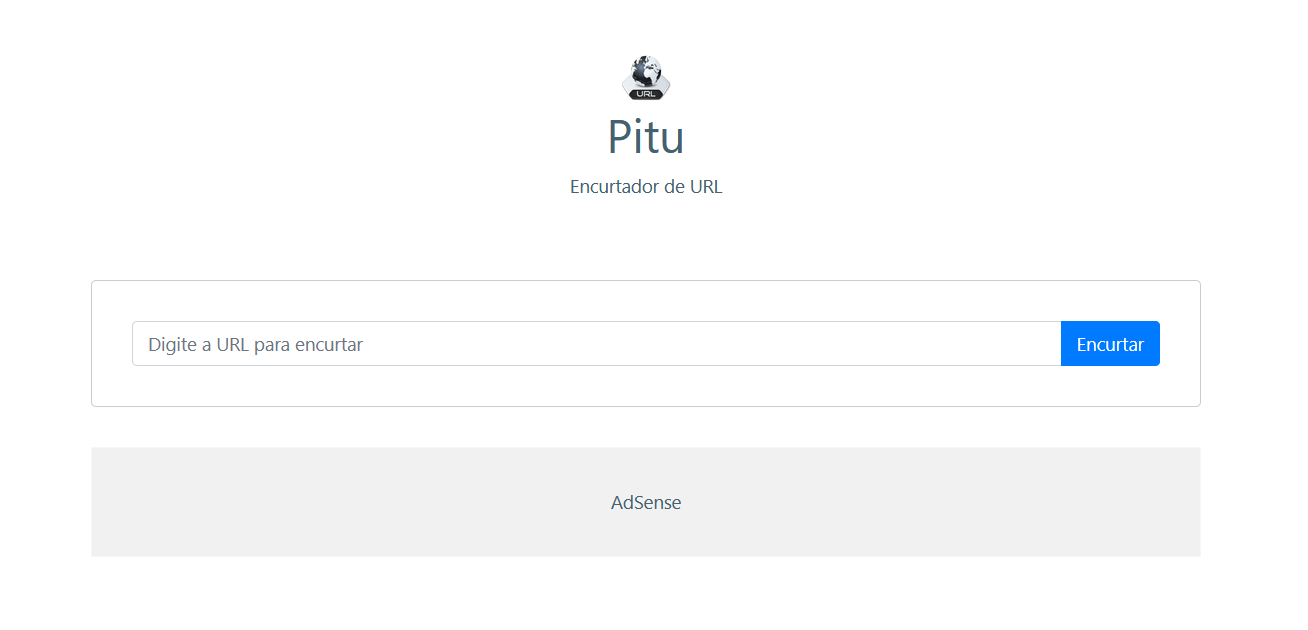
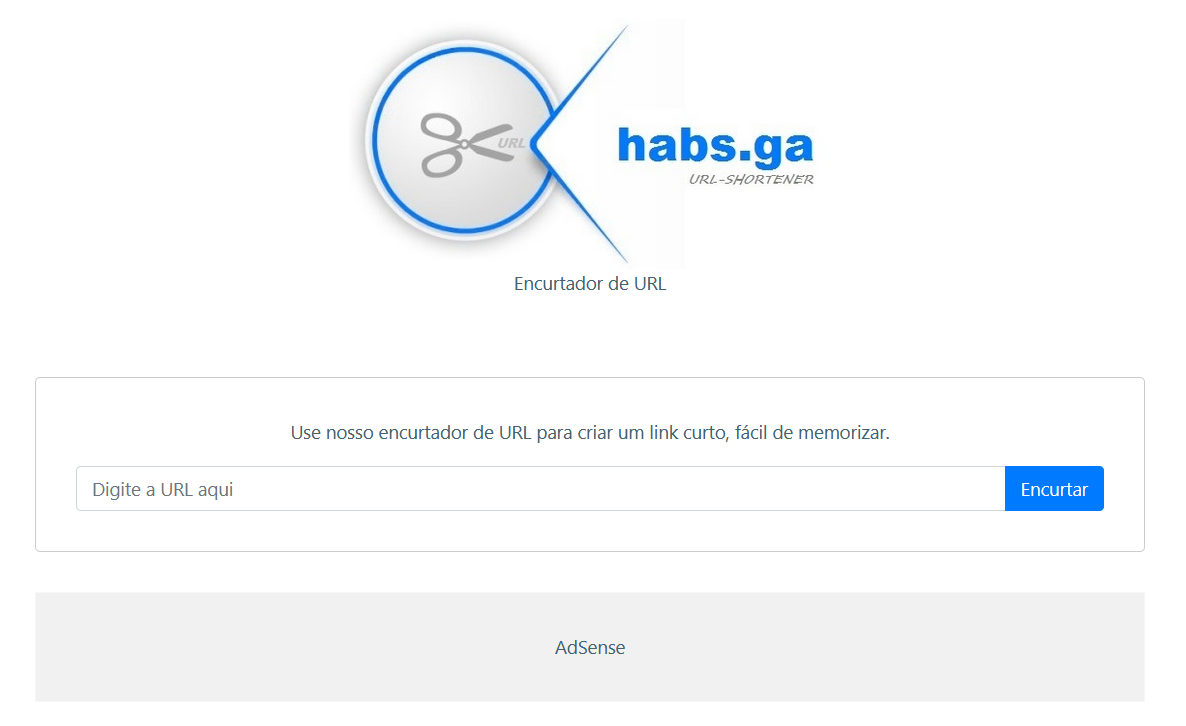
Alter images/layout in frontend

diff --git a/frontend/src/pages/HomePage/index.js b/frontend/src/pages/HomePage/index.js
@@ -54,9 +54,10 @@ class HomePage extends React.Component {
         <Header>Encurtador de URL</Header>
         <ContentContainer>
           <Form onSubmit={this.handleSubmit}>
+            <p>Use nosso encurtador de URL para criar um link curto, fácil de memorizar.</p>
             <InputGroup className="mb-3">
               <FormControl
-                placeholder="Digite a URL para encurtar"
+                placeholder="Digite a URL aqui"
                 defaultValue=""
                 onChange={e => this.setState({ url: e.target.value })}
               />
@@ -68,23 +69,23 @@ class HomePage extends React.Component {
             {isLoading ? (
               <Spinner animation="border" />
             ) : (
-                // Se o "shortenerURL" for diferente de vazio
-                shortenerURL && (
-                  <>
-                    <InputGroup className="mb-3">
-                      <FormControl
-                        autoFocus={true}
-                        defaultValue={vars.HOST_APP + shortenerURL}
-                        ref={(input) => this.inputURL = input}
-                      />
-                      <InputGroup.Append>
-                        <Button variant="outline-secondary" onClick={() => this.copyToClipboard()}>Copiar</Button>
-                      </InputGroup.Append>
-                    </InputGroup>
-                    <p>Para acompanhar as estatísticas, acesse {vars.HOST_APP + shortenerURL}/stats</p>
-                  </>
-                )
-              )}
+              // Se o "shortenerURL" for diferente de vazio
+              shortenerURL && (
+                <>
+                  <InputGroup className="mb-3">
+                    <FormControl
+                      autoFocus={true}
+                      defaultValue={vars.HOST_APP + shortenerURL}
+                      ref={(input) => this.inputURL = input}
+                    />
+                    <InputGroup.Append>
+                      <Button variant="outline-secondary" onClick={() => this.copyToClipboard()}>Copiar</Button>
+                    </InputGroup.Append>
+                  </InputGroup>
+                  <p>Para acompanhar as estatísticas, acesse {vars.HOST_APP + shortenerURL}/stats</p>
+                </>
+              )
+            )}
 
             {errorMessage && <Alert variant="danger">{errorMessage}</Alert>}
           </Form>

diff --git a/frontend/src/components/Header/index.js b/frontend/src/components/Header/index.js
@@ -1,13 +1,13 @@
 import React from 'react';
 import { HeaderContainer, Logo } from './styles';
 
-import Icone from '../../assets/Internet-url-icon.png';
+import Icone from '../../assets/url-shortener-habs-logo.jpg';
 
 function Header(props) {
   return (
     <HeaderContainer>
       <Logo src={Icone} alt='Encurtador de URL' />
-      <h1>Pitu</h1>
+      {/* <h1>Pitu</h1> */}
       <p>{props.children}</p>
     </HeaderContainer>
   )

diff --git a/frontend/public/index.html b/frontend/public/index.html
@@ -22,7 +22,7 @@
       work correctly both with client-side routing and a non-root public URL.
       Learn how to configure a non-root public URL by running `npm run build`.
     -->
-  <title>Pitu - URL Shortener</title>
+  <title>URL Shortener</title>
 </head>
 
 <body>

diff --git a/frontend/src/components/Header/styles.js b/frontend/src/components/Header/styles.js
@@ -7,5 +7,5 @@ export const HeaderContainer = styled.div`
 
 export const Logo = styled.img`
   max-width: 100%;
-  height: 42px;
+  height: 200px;
 `;
